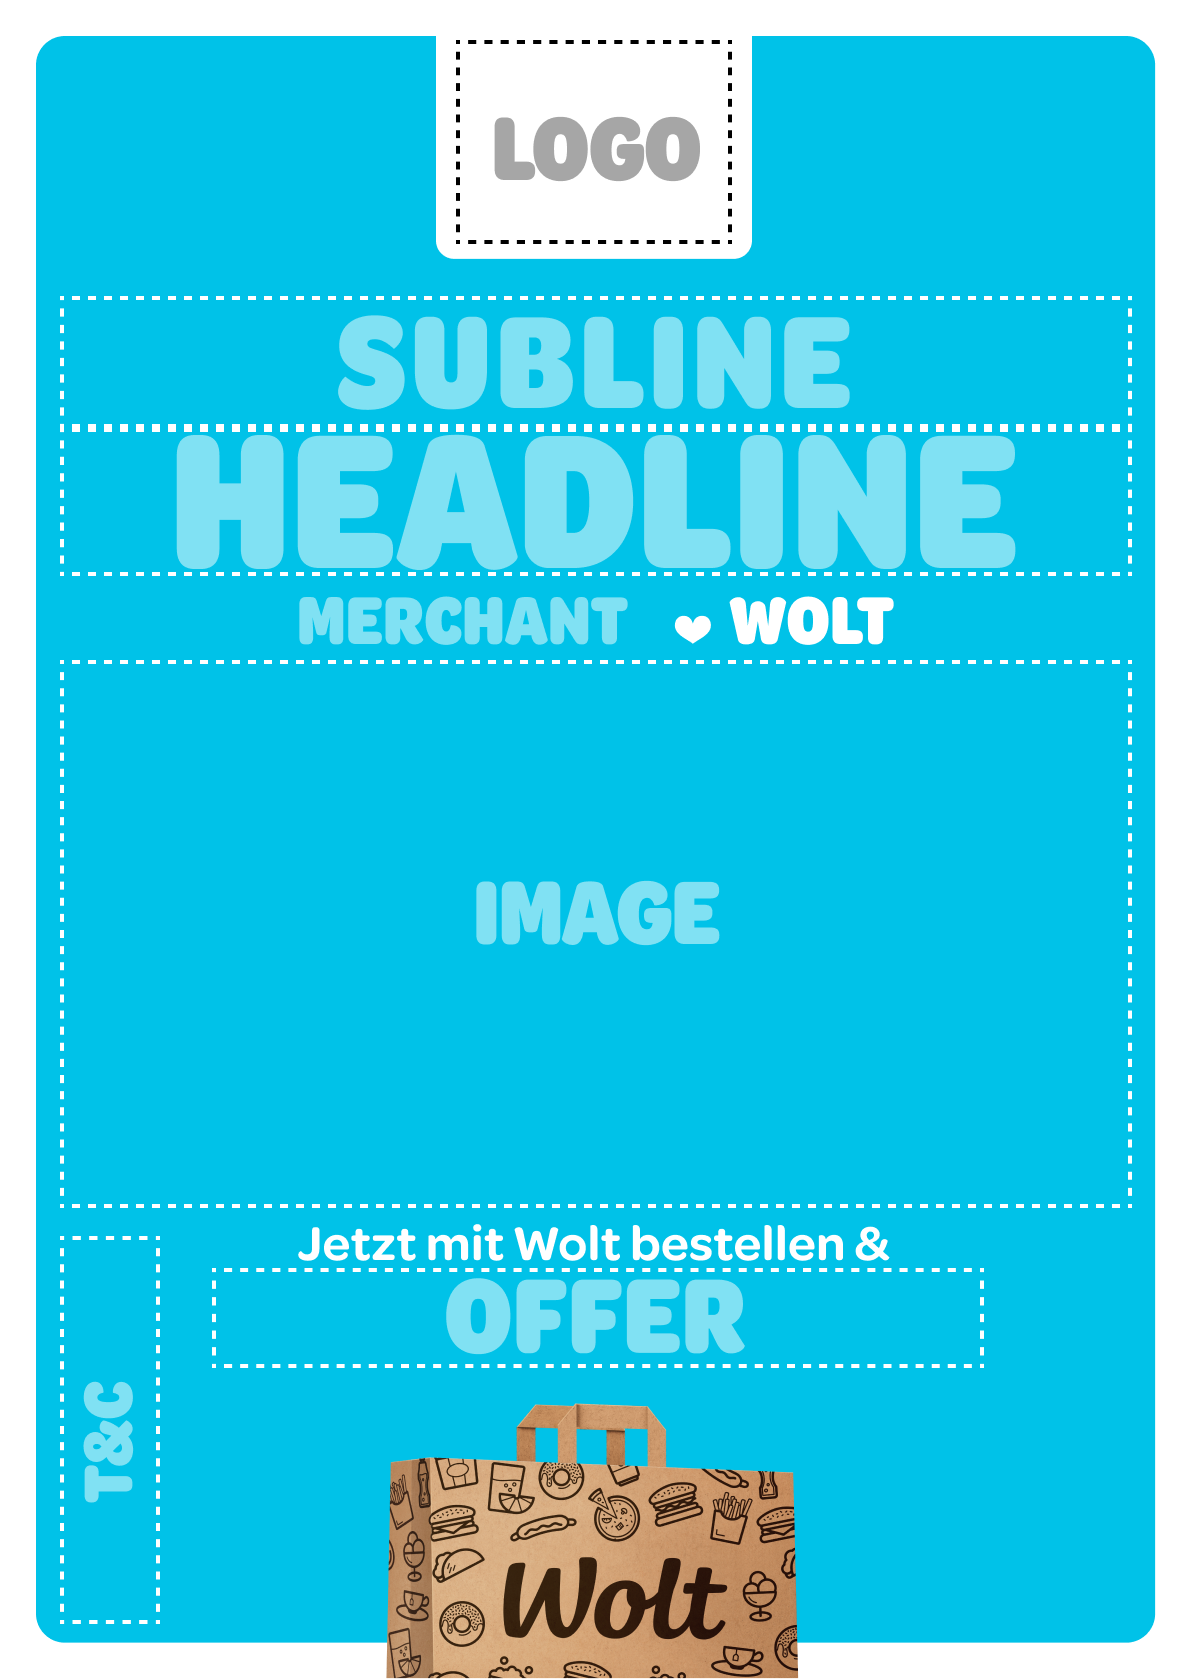
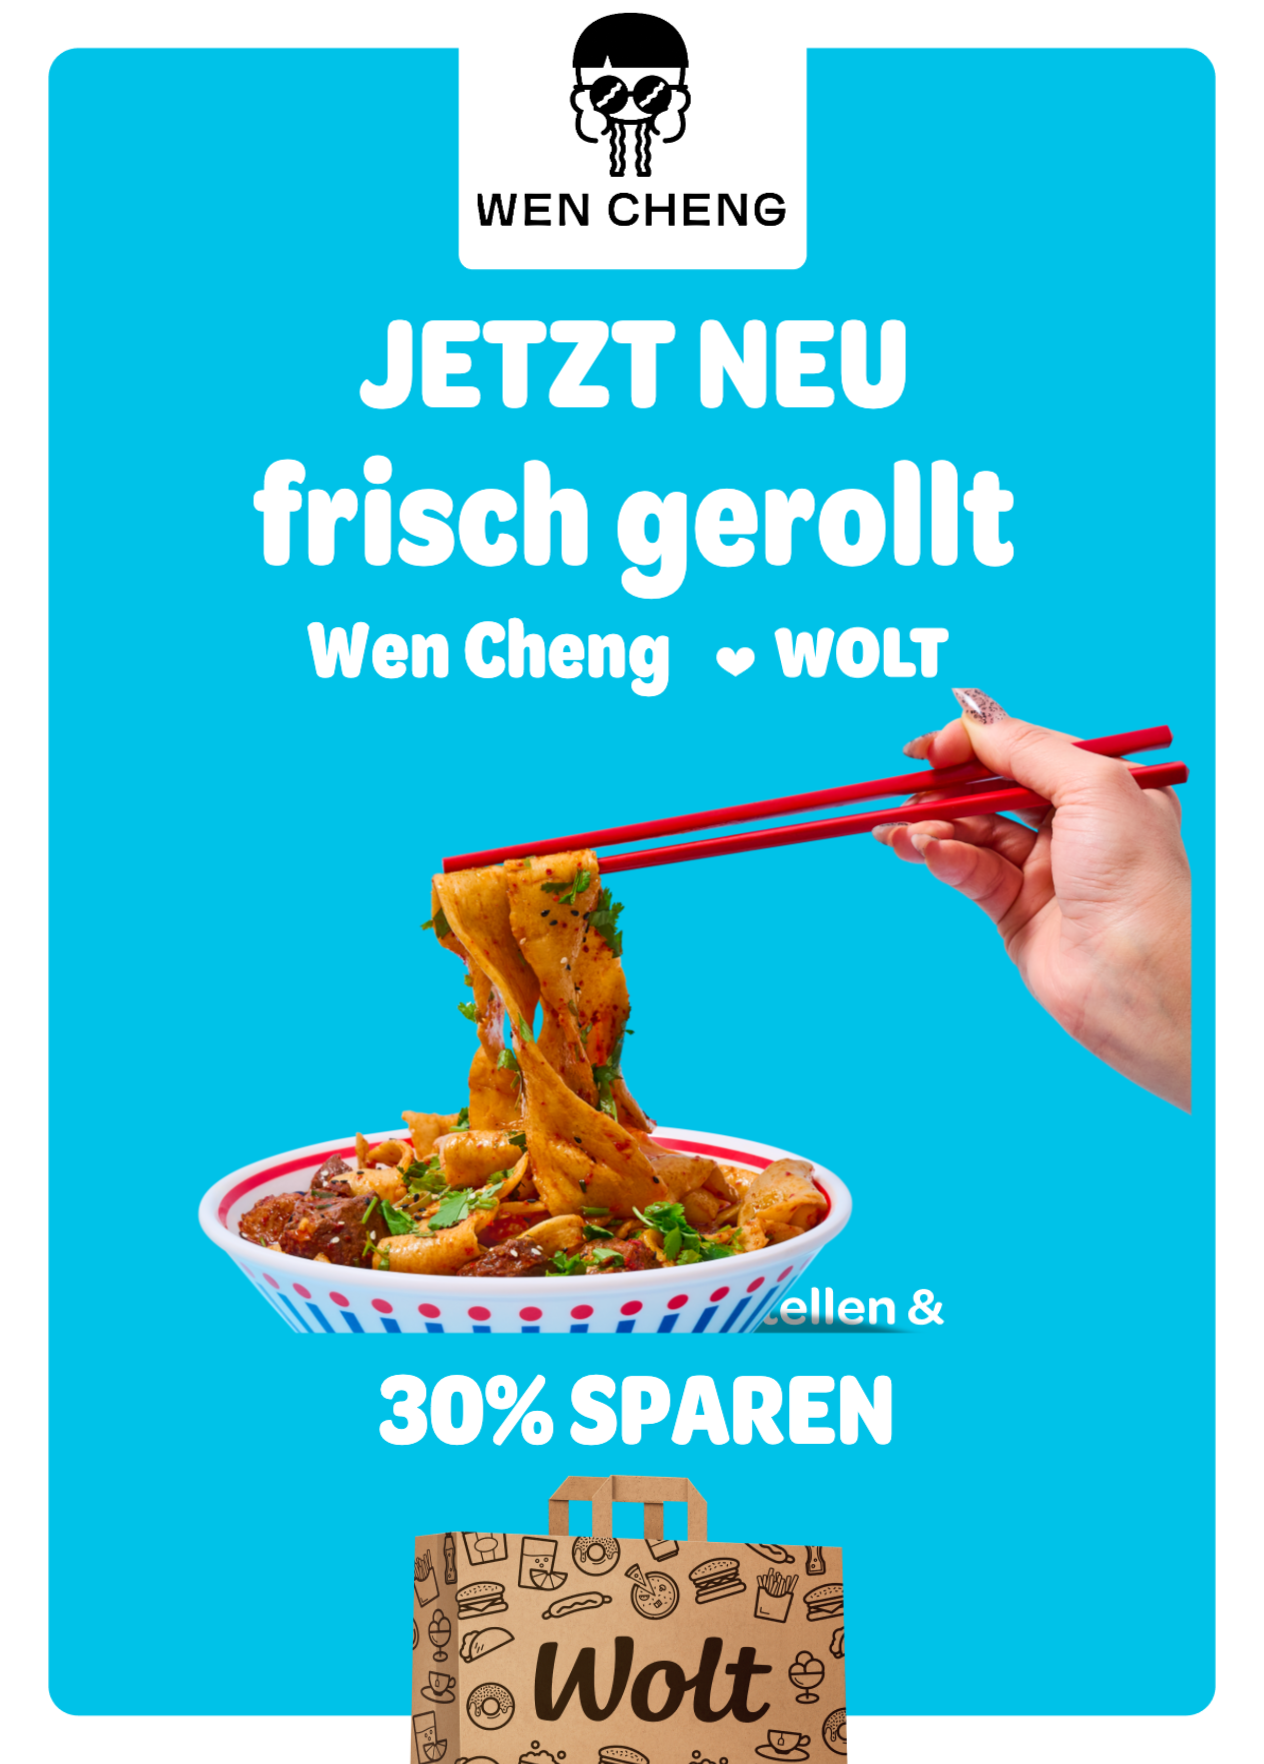
Restore template-first CTA, apply Annika's follow-up/thumbnail feedback, clear Offer field, overlap food photo over headline
- Bring back the "Pick your template first" button in the brief hero column
- Add a red asterisk and a "Use same name as Partner name" checkbox to the
  objective follow-up field, auto-filling it from Partner name when checked
- Regenerate Option A's catalogue thumbnail as a real filled-in example
  flyer (rendered via the app's own export pipeline) instead of an empty
  placeholder
- Leave the Offer field blank instead of pre-filling it with the objective
  text, and show a greyed "z.B. 30% Rabatt" example placeholder instead
- Let Option A's food photo overlap in front of the headline (Wolt-style)
  via the existing overlapAbove mechanism, already proven on Option B

Changed region(s): [[0.0311, 0.0, 0.9941, 1.0], [0.5592, 0.8672, 0.6835, 0.9601]]

diff --git a/wildcast-app/src/components/BriefingForm.jsx b/wildcast-app/src/components/BriefingForm.jsx
@@ -3,7 +3,7 @@ import WordCarousel from './WordCarousel'
 import Select from './Select'
 import { HugeiconsIcon } from '@hugeicons/react'
 import { CheckmarkSquare01Icon, SquareIcon } from '@hugeicons/core-free-icons'
-import { ADD_NEW, PLACEHOLDER_PARTNERS, OBJECTIVES, FORMATS, FORMAT_TEMPLATE_GROUP, DEFAULT_BRIEF } from '../lib/briefConstants'
+import { ADD_NEW, PLACEHOLDER_PARTNERS, OBJECTIVES, FORMATS, FORMAT_TEMPLATE_GROUP, DEFAULT_BRIEF, resolvePartnerName } from '../lib/briefConstants'
 import { liveFormatsFor } from './TemplatePicker'
 
 const inputStyle = { width: '100%', padding: '10px 12px', fontSize: 14, fontFamily: 'inherit', border: '1.5px solid var(--border)', borderRadius: 8, outline: 'none', boxSizing: 'border-box' }
@@ -34,16 +34,34 @@ const FEATURES = [
   },
 ]
 
-function HeroColumn() {
+// onBrowseTemplates: brought back per Julia's ask (2026-09-09) - was removed
+// in the 2026-09-08 workflow change since the brief always leads to a
+// template picker next anyway, but partners still want a way to look before
+// committing to filling out the brief. Goes to the same Templates catalogue
+// the top-nav link opens (App.jsx's onNavigate('catalogue')), not a
+// brief-scoped picker - browsing here doesn't pre-fill anything.
+function HeroColumn({ onBrowseTemplates }) {
   return (
     <div>
       <div style={{ fontSize: 11, fontWeight: 700, color: 'var(--primary)', textTransform: 'uppercase', letterSpacing: '0.1em', marginBottom: 14 }}>Wolt Partner Tools</div>
       <h1 style={{ fontSize: 42, fontWeight: 800, letterSpacing: '-0.03em', color: 'var(--dark)', margin: '0 0 20px', lineHeight: 1.08 }}>
         We help <WordCarousel words={['design', 'export', 'print']} style={{ color: 'var(--primary)' }} />
       </h1>
-      <p style={{ fontSize: 15, color: 'var(--mid)', lineHeight: 1.6, maxWidth: 420, marginBottom: 36 }}>
+      <p style={{ fontSize: 15, color: 'var(--mid)', lineHeight: 1.6, maxWidth: 420, marginBottom: 24 }}>
         Tell us what you need, the same way you'd brief a designer - we'll show you templates that fit, ready to fill in live.
       </p>
+      <button
+        type="button"
+        onClick={onBrowseTemplates}
+        style={{
+          display: 'inline-flex', alignItems: 'center', gap: 8, marginBottom: 36,
+          padding: '11px 20px', fontSize: 13, fontWeight: 700, borderRadius: 10, cursor: 'pointer',
+          border: '1.5px solid var(--primary)', background: '#fff', color: 'var(--primary)',
+        }}
+      >
+        <svg width="15" height="15" viewBox="0 0 24 24" fill="none" stroke="currentColor" strokeWidth="2" strokeLinecap="round"><rect x="3" y="3" width="18" height="18" rx="2"/><path d="M9 9h6M9 12h6M9 15h4"/></svg>
+        Pick your template first
+      </button>
 
       <div
         style={{
@@ -129,7 +147,7 @@ function ChoiceButton({ active, onClick, children, checkbox, disabled }) {
 // template + mode is picked, so this form only ever has one screen and one
 // action: hand off to the template picker (Julia's workflow change,
 // 2026-09-08).
-export default function BriefingForm({ submitted, onSubmitted, customCards, customRecords }) {
+export default function BriefingForm({ submitted, onSubmitted, onBrowseTemplates, customCards, customRecords }) {
   // Seed from `submitted` (the last-submitted snapshot) rather than always
   // DEFAULT_BRIEF. BriefingForm fully unmounts whenever screen leaves 'brief'
   // and remounts fresh when you come back (e.g. via the logo, or the
@@ -148,6 +166,7 @@ export default function BriefingForm({ submitted, onSubmitted, customCards, cust
 
   const selectedObjective = OBJECTIVES.find(o => o.value === brief.objective)
   const partnerFilled = brief.partner === ADD_NEW ? brief.partnerNew.trim().length > 0 : brief.partner.length > 0
+  const partnerName = resolvePartnerName(brief)
   // Which format checkboxes actually have a live template to pick next -
   // same live-check the template picker itself uses, so a partner never
   // picks a "coming soon" format that just dead-ends there (checklist i10,
@@ -163,13 +182,17 @@ export default function BriefingForm({ submitted, onSubmitted, customCards, cust
     brief.businessType &&
     brief.about.trim() &&
     brief.objective &&
-    (!selectedObjective?.followUp || brief.objectiveFollowUp.trim()) &&
+    (!selectedObjective?.followUp || brief.objectiveFollowUp.trim() || (brief.followUpSameAsPartner && partnerFilled)) &&
     brief.formats.length > 0
 
   function handleSubmit(e) {
     e.preventDefault()
     if (!isValid) return
-    onSubmitted({ ...brief })
+    // "Use same name as Partner name" resolves to the actual name here, not
+    // just in the field's own display value - buildCandidateFields and
+    // everything downstream reads brief.objectiveFollowUp directly and has
+    // no idea the checkbox exists (Annika's ask, 2026-09-09).
+    onSubmitted({ ...brief, objectiveFollowUp: brief.followUpSameAsPartner ? partnerName : brief.objectiveFollowUp })
   }
 
   return (
@@ -177,7 +200,7 @@ export default function BriefingForm({ submitted, onSubmitted, customCards, cust
       <div style={{ maxWidth: 1100, margin: '0 auto', padding: '64px 32px' }}>
         <div style={{ display: 'grid', gridTemplateColumns: 'repeat(auto-fit, minmax(360px, 1fr))', gap: 56, alignItems: 'start' }}>
 
-          <HeroColumn />
+          <HeroColumn onBrowseTemplates={onBrowseTemplates} />
 
           <form
             onSubmit={handleSubmit}
@@ -223,7 +246,27 @@ export default function BriefingForm({ submitted, onSubmitted, customCards, cust
                 ))}
               </div>
               {selectedObjective?.followUp && (
-                <input style={{ ...inputStyle, marginTop: 10 }} placeholder={selectedObjective.followUp} value={brief.objectiveFollowUp} onChange={e => set('objectiveFollowUp', e.target.value)} />
+                <div style={{ marginTop: 10 }}>
+                  <label style={{ display: 'block', fontSize: 12, fontWeight: 600, color: 'var(--dark)', marginBottom: 4 }}>
+                    {selectedObjective.followUp} <span style={{ color: '#EF4444' }}>*</span>
+                  </label>
+                  <input
+                    style={inputStyle}
+                    placeholder={selectedObjective.followUp}
+                    value={brief.followUpSameAsPartner ? partnerName : brief.objectiveFollowUp}
+                    disabled={brief.followUpSameAsPartner}
+                    onChange={e => set('objectiveFollowUp', e.target.value)}
+                  />
+                  <label style={{ display: 'flex', alignItems: 'center', gap: 7, marginTop: 8, fontSize: 12, color: 'var(--mid)', cursor: 'pointer' }}>
+                    <input
+                      type="checkbox"
+                      checked={brief.followUpSameAsPartner}
+                      onChange={e => set('followUpSameAsPartner', e.target.checked)}
+                      style={{ width: 14, height: 14, cursor: 'pointer' }}
+                    />
+                    Use same name as Partner name
+                  </label>
+                </div>
               )}
             </Field>
 

diff --git a/wildcast-app/src/components/FieldEditor.jsx b/wildcast-app/src/components/FieldEditor.jsx
@@ -119,10 +119,11 @@ function NudgeControl({ onNudge }) {
 // showSize=true adds just the font-size control (guided mode)
 // readOnly=true (restricted review mode) locks the text value itself and hides
 // AI Suggest - only Scale (showSize) and onNudge, if passed, stay available.
-function StepFieldRow({ step, label, fieldKey, value, onChange, lang, required, optional, multiline, showControls, showSize, fontSize, onFontSize, align, onAlign, onResetPosition, readOnly, onNudge, credits, onCreditUsed }) {
+function StepFieldRow({ step, label, fieldKey, value, onChange, lang, required, optional, multiline, showControls, showSize, fontSize, onFontSize, align, onAlign, onResetPosition, readOnly, onNudge, credits, onCreditUsed, placeholder }) {
   const limit = CHAR_LIMITS[fieldKey]
   const hint = FIELD_HINTS[fieldKey]
   const over = limit && value.length > limit
+  const fieldPlaceholder = placeholder ?? `Enter ${label.toLowerCase()}…`
 
   return (
     <div style={{ marginBottom: 24 }}>
@@ -173,7 +174,7 @@ function StepFieldRow({ step, label, fieldKey, value, onChange, lang, required, 
           readOnly={readOnly}
           maxLength={limit}
           rows={3}
-          placeholder={`Enter ${label.toLowerCase()}…`}
+          placeholder={fieldPlaceholder}
           style={{ width: '100%', boxSizing: 'border-box', padding: '10px 12px', fontSize: 13, border: `1px solid ${over ? '#EF4444' : 'var(--border)'}`, borderRadius: 8, outline: 'none', resize: 'vertical', background: readOnly ? '#F3F4F6' : 'var(--surface)', color: 'var(--dark)', fontFamily: 'inherit', lineHeight: 1.5, cursor: readOnly ? 'default' : 'text', overflowWrap: 'break-word', wordBreak: 'break-word' }}
         />
       ) : (
@@ -183,7 +184,7 @@ function StepFieldRow({ step, label, fieldKey, value, onChange, lang, required, 
           onChange={e => onChange(e.target.value)}
           readOnly={readOnly}
           maxLength={limit}
-          placeholder={`Enter ${label.toLowerCase()}…`}
+          placeholder={fieldPlaceholder}
           style={{ width: '100%', padding: '10px 12px', fontSize: 13, border: `1px solid ${over ? '#EF4444' : 'var(--border)'}`, borderRadius: 8, outline: 'none', background: readOnly ? '#F3F4F6' : 'var(--surface)', color: 'var(--dark)', fontFamily: 'inherit', cursor: readOnly ? 'default' : 'text' }}
         />
       )}
@@ -637,6 +638,7 @@ export default function FieldEditor({ fields, onChange, lang, onLangChange, onEx
           <StepFieldRow
             step={4} label="Offer" fieldKey="offer"
             value={fields.offer} onChange={v => onChange('offer', v)} lang={lang} optional
+            placeholder="z.B. 30% Rabatt"
             credits={credits} onCreditUsed={onCreditUsed}
             readOnly={restricted}
             showControls={showControls && !restricted} showSize={isNonDesigner || restricted}

diff --git a/wildcast-app/src/lib/briefToCandidates.js b/wildcast-app/src/lib/briefToCandidates.js
@@ -50,7 +50,12 @@ export function buildCandidateFields(brief, { logoUrl, photoUrl } = {}) {
     // "McDonald's Zentrum") - falls back to Partner name otherwise.
     restaurant_name: brief.restaurantName?.trim() || partnerName || '',
     tc: brief.tcs || '',
-    offer: offerText,
+    // Left blank rather than pre-filled with the objective text (Julia's ask,
+    // 2026-09-09) - "New Dish"/"Limited campaign" etc. read as a real typed
+    // offer, not a placeholder, so partners kept it without noticing. The
+    // editor now shows a greyed example instead (FieldEditor.jsx's Offer
+    // placeholder). offerText still feeds `cta`'s fallback below.
+    offer: '',
     // Own field, distinct from Subline (Julia's ask, 2026-08-04) - falls back
     // to Subline, then the objective text, so a brief filled out before this
     // field existed (or left blank) still fills Option B's second line.

diff --git a/wildcast-app/src/data/templateZones.js b/wildcast-app/src/data/templateZones.js
@@ -162,6 +162,15 @@ const WEN_CHENG_V3_ZONES = [
     // Position nudge actually has room to move.
     x: 18.98, y: 171.52,
     width: 278.36, height: 161.2,
+    // Lets the photo visually overlap the headline above it, "Wolt style"
+    // (Julia's ask, 2026-09-09) - same mechanism Option B already uses
+    // (TemplateCanvas.jsx auto-extends the clip region up by this amount and
+    // brings the image in front of all text). Sized to reach the headline
+    // zone's own top edge: the 22.88pt gap between headline's bottom (108.18
+    // + 40.46) and this zone's own y (171.52), plus the headline's full
+    // height (40.46) - so the photo CAN cover the whole headline if its
+    // content extends that far, without ever clipping into sub_headline.
+    overlapAbove: 63.34,
   },
   {
     id: 'restaurant_name',

diff --git a/wildcast-app/src/lib/briefConstants.js b/wildcast-app/src/lib/briefConstants.js
@@ -40,6 +40,11 @@ export const DEFAULT_BRIEF = {
   businessType: '',
   about: '',
   objective: '', objectiveFollowUp: '',
+  // "Use same name as Partner name" checkbox on the objective follow-up
+  // field (e.g. "What's the new name of the restaurant?") - Annika's ask,
+  // 2026-09-09. Resolved to the real partner name in BriefingForm's
+  // handleSubmit, so nothing downstream needs to know this flag exists.
+  followUpSameAsPartner: false,
   formats: [],
   // Shown on the flyer artwork (Option A's restaurant_name zone) - distinct
   // from Partner name, which just scopes the Library/internal tracking.

diff --git a/wildcast-app/src/App.jsx b/wildcast-app/src/App.jsx
@@ -1024,6 +1024,7 @@ export default function App() {
             submitted={briefSubmission}
             customCards={customTemplates.cards}
             customRecords={customTemplates.records}
+            onBrowseTemplates={() => setScreen('catalogue')}
             onSubmitted={brief => {
               setBriefSubmission(brief)
               setCompletedFormats(new Set())
